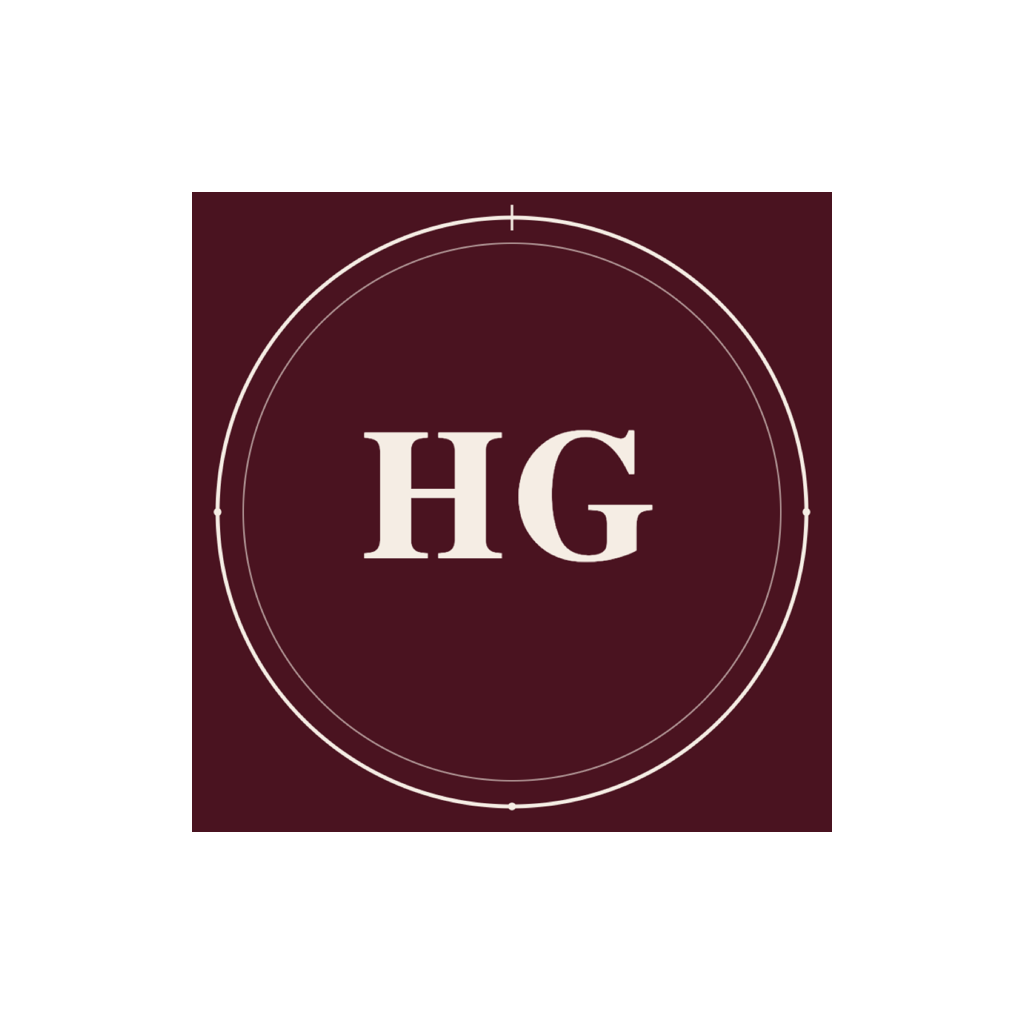
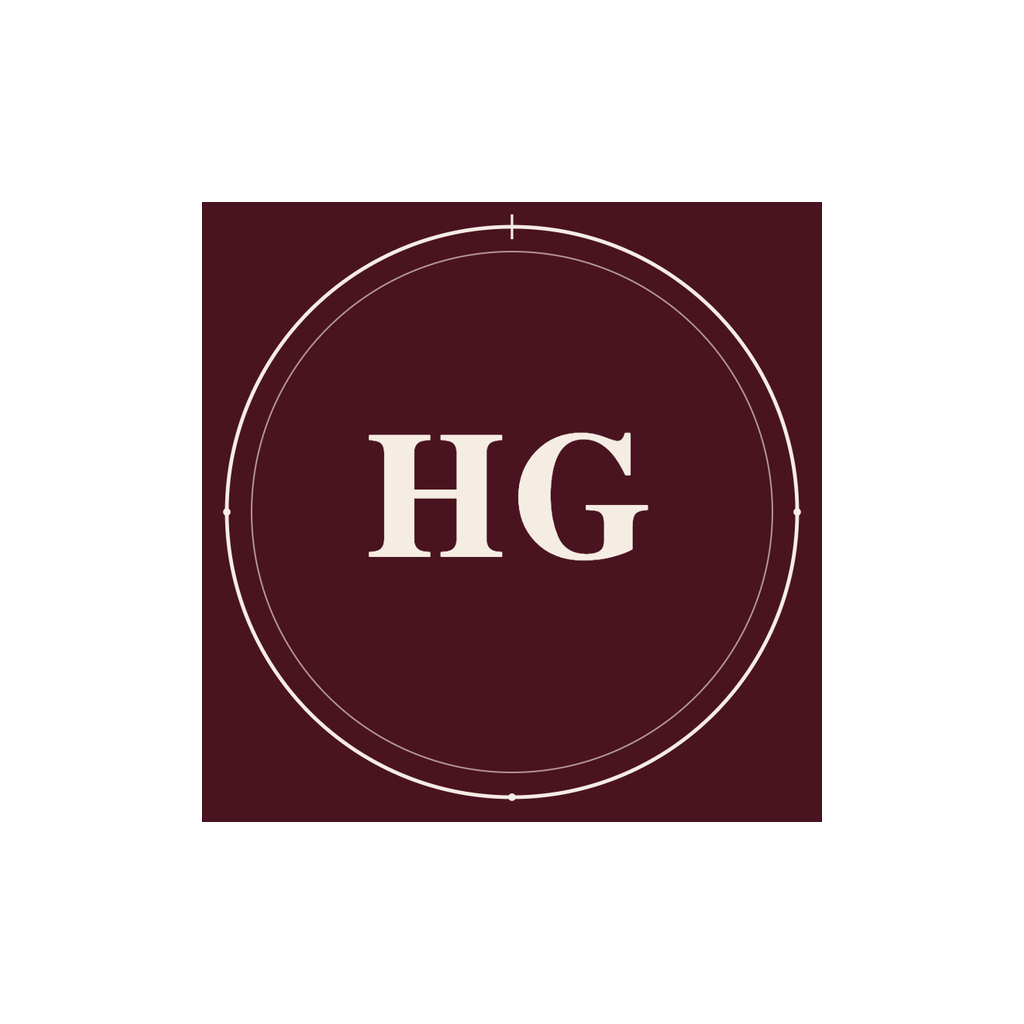
feat(mobile): planeación semanal en Gym + ícono a sangre completa
"Tu semana" muestra cada día con su grupo muscular, esquema y estado;
tocar un día pinta esa sesión, y la captura sigue habilitada solo en
la de hoy para no registrar series en el día equivocado. El ícono
usa el monograma llenando el cuadro (antes se veía un cuadro guinda
dentro del fondo obsidiana).

diff --git a/apps/mobile/src/app/(tabs)/gym.tsx b/apps/mobile/src/app/(tabs)/gym.tsx
@@ -2,6 +2,8 @@ import NetInfo from "@react-native-community/netinfo";
 import { useCallback, useEffect, useMemo, useState } from "react";
 import { Modal, Pressable, ScrollView, StyleSheet, Text, View } from "react-native";
 
+import { Chip } from "@/components/Chip";
+import { Collapsible } from "@/components/Collapsible";
 import { ExerciseCapture } from "@/components/ExerciseCapture";
 import { EmptyState, ErrorState, LoadingState } from "@/components/States";
 import {
@@ -51,6 +53,41 @@ function mondayISO(): string {
   now.setDate(now.getDate() - (day - 1));
   const month = String(now.getMonth() + 1).padStart(2, "0");
   return `${now.getFullYear()}-${month}-${String(now.getDate()).padStart(2, "0")}`;
+}
+
+/** Suma días a una fecha ISO (yyyy-mm-dd) sin salirse de horario local. */
+function addDaysISO(dateISO: string, days: number): string {
+  const [year, month, day] = dateISO.split("-").map(Number);
+  const date = new Date(year!, month! - 1, day!);
+  date.setDate(date.getDate() + days);
+  const nextMonth = String(date.getMonth() + 1).padStart(2, "0");
+  const nextDay = String(date.getDate()).padStart(2, "0");
+  return `${date.getFullYear()}-${nextMonth}-${nextDay}`;
+}
+
+const WEEKDAY_ABBR_BY_DOW = ["DOM", "LUN", "MAR", "MIÉ", "JUE", "VIE", "SÁB"];
+const WEEKDAY_LONG_BY_DOW = ["domingo", "lunes", "martes", "miércoles", "jueves", "viernes", "sábado"];
+const MONTH_ABBR = ["ene", "feb", "mar", "abr", "may", "jun", "jul", "ago", "sep", "oct", "nov", "dic"];
+
+function dayOfWeek(dateISO: string): number {
+  const [year, month, day] = dateISO.split("-").map(Number);
+  return new Date(year!, month! - 1, day!).getDay();
+}
+
+/** "LUN", "MAR"… — para las filas de "Tu semana". */
+function weekdayAbbr(dateISO: string): string {
+  return WEEKDAY_ABBR_BY_DOW[dayOfWeek(dateISO)]!;
+}
+
+/** "lunes", "martes"… — para el aviso de "estás viendo otro día". */
+function weekdayLong(dateISO: string): string {
+  return WEEKDAY_LONG_BY_DOW[dayOfWeek(dateISO)]!;
+}
+
+/** "25 AGO" — fecha corta para acompañar el día abreviado. */
+function shortDateLabel(dateISO: string): string {
+  const [, month, day] = dateISO.split("-").map(Number);
+  return `${day} ${MONTH_ABBR[month! - 1]!.toUpperCase()}`;
 }
 
 function emptySessionInput(workoutId: string): SessionSyncInput {
@@ -124,11 +161,27 @@ export default function GymScreen() {
   const [draft, setDraft] = useState<SessionSyncInput | null>(null);
   const [openIndex, setOpenIndex] = useState<number | null>(null);
   const [summaryOpen, setSummaryOpen] = useState(false);
+  /** Día que se está mirando abajo de "Tu semana". Arranca en hoy; tocar otra
+   * fila de la semana la mueve, pero solo la sesión de HOY admite captura. */
+  const [selectedDate, setSelectedDate] = useState(today);
 
   const session = useMemo<SessionView | null>(
     () => week?.sessions.find((entry) => entry.date === today) ?? null,
     [week, today],
   );
+
+  const viewedSession = useMemo<SessionView | null>(
+    () => week?.sessions.find((entry) => entry.date === selectedDate) ?? null,
+    [week, selectedDate],
+  );
+  const isViewingToday = selectedDate === today;
+
+  // Cada vez que "hoy" se refresca de verdad (carga inicial, reintento tras
+  // reconexión) la vista vuelve a hoy — así no se queda "atorada" en el día
+  // que se estaba mirando en una sesión anterior de la pantalla.
+  useEffect(() => {
+    setSelectedDate(today);
+  }, [today]);
 
   const load = useCallback(async () => {
     setPhase("loading");
@@ -302,32 +355,56 @@ export default function GymScreen() {
     <ScrollView style={styles.screen} contentContainerStyle={styles.content}>
       <ConnectionBadge online={online} pendingCount={pendingCount} onRetry={() => void syncAndNotify()} />
 
-      {!session ? (
-        <RestDay week={week} today={today} />
-      ) : openIndex === null || !draft ? (
+      {week && (
+        <WeekOverview
+          week={week}
+          today={today}
+          selectedDate={selectedDate}
+          onSelectDate={setSelectedDate}
+        />
+      )}
+
+      {!viewedSession ? (
+        <RestDay week={week} selectedDate={selectedDate} isToday={isViewingToday} />
+      ) : openIndex === null || !draft || !session ? (
         <>
           <View style={styles.header}>
-            <Text style={styles.title}>{session.muscleGroup}</Text>
+            <Text style={styles.title}>{viewedSession.muscleGroup}</Text>
             <Text style={styles.meta}>
-              {session.schemeLabel} · {session.exercises.length} ejercicios
-              {session.cardioMinutes ? ` · ${session.cardioMinutes} min de cardio al final` : ""}
+              {viewedSession.schemeLabel} · {viewedSession.exercises.length} ejercicios
+              {viewedSession.cardioMinutes ? ` · ${viewedSession.cardioMinutes} min de cardio al final` : ""}
             </Text>
-            {session.cycleNote && <Text style={styles.note}>{session.cycleNote}</Text>}
-            {session.readinessNote && <Text style={styles.note}>🌙 {session.readinessNote}</Text>}
+            {viewedSession.cycleNote && <Text style={styles.note}>{viewedSession.cycleNote}</Text>}
+            {viewedSession.readinessNote && <Text style={styles.note}>🌙 {viewedSession.readinessNote}</Text>}
           </View>
 
+          {!isViewingToday && (
+            <View style={styles.viewingNotice}>
+              <Text style={styles.viewingNoticeText}>
+                Estás viendo el {weekdayLong(selectedDate)}; la captura solo se habilita en la sesión de hoy.
+              </Text>
+            </View>
+          )}
+
           <View style={styles.list}>
-            {session.exercises.map((exercise, index) => {
-              const done = exercise.sets.filter((_, setIndex) =>
-                draft?.sets.some((set) => set.clientId === `${session.workoutId}:${index}:${setIndex}`),
-              ).length;
-              const complete = done === exercise.sets.length;
+            {viewedSession.exercises.map((exercise, index) => {
+              const done = isViewingToday
+                ? exercise.sets.filter((_, setIndex) =>
+                    draft?.sets.some(
+                      (set) => set.clientId === `${viewedSession.workoutId}:${index}:${setIndex}`,
+                    ),
+                  ).length
+                : 0;
+              const complete = isViewingToday && done === exercise.sets.length;
 
               return (
                 <Pressable
                   key={`${exercise.name}-${index}`}
-                  onPress={() => setOpenIndex(index)}
-                  style={styles.exerciseRow}
+                  onPress={() => {
+                    if (isViewingToday) setOpenIndex(index);
+                  }}
+                  disabled={!isViewingToday}
+                  style={[styles.exerciseRow, !isViewingToday && styles.exerciseRowDisabled]}
                 >
                   <View style={[styles.exerciseDot, complete && styles.exerciseDotDone]}>
                     <Text style={styles.exerciseDotText}>{complete ? "✓" : "○"}</Text>
@@ -335,24 +412,27 @@ export default function GymScreen() {
                   <View style={styles.exerciseInfo}>
                     <Text style={styles.exerciseName}>{exercise.name}</Text>
                     <Text style={styles.exerciseMeta}>
-                      {exercise.schemeLabel} · {done}/{exercise.sets.length} series
+                      {exercise.schemeLabel}
+                      {isViewingToday ? ` · ${done}/${exercise.sets.length} series` : ` · ${exercise.sets.length} series`}
                     </Text>
                   </View>
-                  <Text style={styles.chevron}>›</Text>
+                  {isViewingToday && <Text style={styles.chevron}>›</Text>}
                 </Pressable>
               );
             })}
           </View>
 
-          <Pressable
-            onPress={() => setSummaryOpen(true)}
-            disabled={totals.sets === 0}
-            style={[styles.finishButton, totals.sets === 0 && styles.finishButtonDisabled]}
-          >
-            <Text style={styles.finishButtonText}>
-              TERMINAR SESIÓN ({exercisesDone}/{session.exercises.length})
-            </Text>
-          </Pressable>
+          {isViewingToday && (
+            <Pressable
+              onPress={() => setSummaryOpen(true)}
+              disabled={totals.sets === 0}
+              style={[styles.finishButton, totals.sets === 0 && styles.finishButtonDisabled]}
+            >
+              <Text style={styles.finishButtonText}>
+                TERMINAR SESIÓN ({exercisesDone}/{viewedSession.exercises.length})
+              </Text>
+            </Pressable>
+          )}
         </>
       ) : (
         <ExerciseCapture
@@ -417,12 +497,93 @@ function ConnectionBadge({
   );
 }
 
-function RestDay({ week, today }: { week: WeekView | null; today: string }) {
-  const next = week?.sessions.find((entry) => entry.date > today) ?? null;
+/**
+ * "Tu semana": lunes→domingo de un vistazo, para que la atleta entienda la
+ * combinación de grupos musculares que salió de su onboarding antes de
+ * meterse al detalle del día. Va arriba de la sesión — es el mapa; lo de
+ * abajo es el terreno. Tocar una fila con sesión cambia `selectedDate`, y
+ * la lista de ejercicios de abajo se redibuja para ese día.
+ */
+function WeekOverview({
+  week,
+  today,
+  selectedDate,
+  onSelectDate,
+}: {
+  week: WeekView;
+  today: string;
+  selectedDate: string;
+  onSelectDate: (date: string) => void;
+}) {
+  const days = useMemo(
+    () => Array.from({ length: 7 }, (_, index) => addDaysISO(week.weekStart, index)),
+    [week.weekStart],
+  );
+
+  return (
+    <Collapsible title="Tu semana" subtitle="Cómo se reparten tus grupos musculares" defaultOpen>
+      <View style={styles.weekList}>
+        {days.map((date) => {
+          const daySession = week.sessions.find((entry) => entry.date === date) ?? null;
+          const isToday = date === today;
+          const isSelected = date === selectedDate;
+          const done = daySession?.completedAt != null;
+
+          return (
+            <Pressable
+              key={date}
+              onPress={() => onSelectDate(date)}
+              style={[
+                styles.weekRow,
+                isSelected && !isToday && styles.weekRowSelected,
+                isToday && styles.weekRowToday,
+              ]}
+            >
+              <View style={styles.weekDateCol}>
+                <Text style={styles.weekDayAbbr}>{weekdayAbbr(date)}</Text>
+                <Text style={styles.weekDateShort}>{shortDateLabel(date)}</Text>
+              </View>
+
+              <View style={styles.weekInfo}>
+                {daySession ? (
+                  <>
+                    <Text style={styles.weekMuscle}>{daySession.muscleGroup}</Text>
+                    <Text style={styles.weekMeta}>
+                      {daySession.exercises.length} ejercicios · {daySession.schemeLabel}
+                      {daySession.cardioMinutes ? ` · ${daySession.cardioMinutes} min cardio` : ""}
+                    </Text>
+                  </>
+                ) : (
+                  <Text style={styles.weekRest}>Descanso</Text>
+                )}
+              </View>
+
+              <View style={styles.weekStatus}>
+                {done && <Chip label="Hecho" tone="champan" selected />}
+                {isToday && <Chip label="Hoy" selected />}
+              </View>
+            </Pressable>
+          );
+        })}
+      </View>
+    </Collapsible>
+  );
+}
+
+function RestDay({
+  week,
+  selectedDate,
+  isToday,
+}: {
+  week: WeekView | null;
+  selectedDate: string;
+  isToday: boolean;
+}) {
+  const next = week?.sessions.find((entry) => entry.date > selectedDate) ?? null;
 
   return (
     <View style={styles.restDay}>
-      <Text style={styles.title}>Hoy toca descanso</Text>
+      <Text style={styles.title}>{isToday ? "Hoy toca descanso" : `Descanso el ${weekdayLong(selectedDate)}`}</Text>
       <Text style={styles.restMessage}>
         El descanso es parte del plan: el músculo se construye fuera del gimnasio.
       </Text>
@@ -522,6 +683,40 @@ const styles = StyleSheet.create({
   },
   badgeText: { flex: 1, fontFamily: fonts.sans, fontSize: 12, color: colors.paloRosaLight },
   badgeRetry: { fontFamily: fonts.display, fontSize: 10, letterSpacing: 1.5, color: colors.champan },
+  weekList: { gap: spacing.sm },
+  weekRow: {
+    flexDirection: "row",
+    alignItems: "center",
+    gap: spacing.md,
+    borderWidth: 1,
+    borderColor: colors.cardBorder,
+    borderRadius: radius.md,
+    padding: spacing.md,
+  },
+  weekRowSelected: { backgroundColor: "rgba(212,165,165,0.08)" },
+  weekRowToday: { borderColor: colors.guinda, backgroundColor: "rgba(107,31,46,0.14)" },
+  weekDateCol: { width: 46, alignItems: "flex-start" },
+  weekDayAbbr: { fontFamily: fonts.display, fontSize: 11, letterSpacing: 1.5, color: colors.paloRosa },
+  weekDateShort: {
+    fontFamily: fonts.display,
+    fontSize: 9,
+    letterSpacing: 1,
+    color: colors.paloRosaLight,
+    marginTop: 2,
+  },
+  weekInfo: { flex: 1, gap: 2 },
+  weekMuscle: { fontFamily: fonts.sansSemiBold, fontSize: 14, color: colors.marfil },
+  weekMeta: { fontFamily: fonts.sans, fontSize: 12, color: colors.paloRosaLight },
+  weekRest: { fontFamily: fonts.serifItalic, fontSize: 15, color: colors.paloRosaLight },
+  weekStatus: { flexDirection: "row", gap: spacing.xs },
+  viewingNotice: {
+    borderWidth: 1,
+    borderStyle: "dashed",
+    borderColor: colors.cardBorder,
+    borderRadius: radius.md,
+    padding: spacing.sm,
+  },
+  viewingNoticeText: { fontFamily: fonts.sans, fontSize: 12, color: colors.paloRosaLight },
   header: { gap: spacing.xs },
   title: { fontFamily: fonts.display, fontSize: 22, color: colors.marfil },
   meta: { fontFamily: fonts.sans, fontSize: 13, color: colors.paloRosaLight },
@@ -545,6 +740,7 @@ const styles = StyleSheet.create({
     borderRadius: radius.md,
     padding: spacing.md,
   },
+  exerciseRowDisabled: { opacity: 0.5 },
   exerciseDot: {
     width: 36,
     height: 36,
